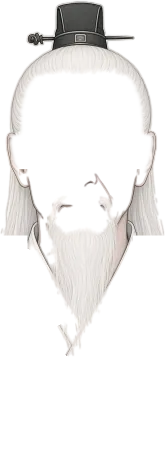
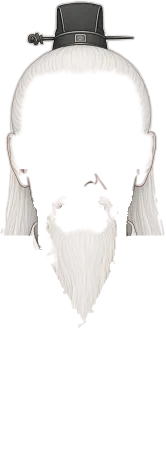
美术：hair_f9 颈侧白半圆、hair_me1 交领线和粉色中衣去掉（扫描仍 0）

diff --git a/tools/portrait_fixes.py b/tools/portrait_fixes.py
@@ -393,7 +393,10 @@ def post_fix(rel, im):
         ko, kr = OUTER_LEAKS[k]
         return fix_outer_leaks(rel, im, ko=ko, kr=kr)
     if k in HAIR_FRAGS:
-        return fix_hair_frags(rel, im)
+        im = fix_hair_frags(rel, im)
+        if k == "hair_me1":
+            im = fix_me1_collar(im)
+        return im
     if k.startswith(("hair_f", "hair_m")) and not k.startswith(("hair_fe", "hair_me")):
         return fix_hair_paper(rel, im)
     if k in BEARD_FRAGS:
@@ -446,6 +449,7 @@ def _part_pos(rel):
 # 头部遮罩以内（刘海、鬓角、额发）一律不动。
 PAPER = (235.0, 231.0, 224.0)
 HAIR_PAPER_ALL = ("hair_f9", "hair_m8")
+HAIR_PAPER_NECK = {"hair_f9": 150}   # 画布 y 以下头部遮罩不护（脸颊以下没有刘海鬓角）
 
 
 def fix_hair_paper(rel, im, y0=110, lift=12):
@@ -480,7 +484,10 @@ def fix_hair_paper(rel, im, y0=110, lift=12):
         H = np.zeros((h, w), np.uint8)
         sub = head[pos[1]:pos[1] + h, pos[0]:pos[0] + w]
         H[:sub.shape[0], :sub.shape[1]] = sub
-        tgt &= ~(cv2.dilate(H, np.ones((5, 5), np.uint8)) > 0)
+        prot = cv2.dilate(H, np.ones((5, 5), np.uint8)) > 0
+        if k in HAIR_PAPER_NECK:   # v0.16：f9 颈侧两块白半圆在遮罩里，颈部以下遮罩也不护
+            prot &= yy < HAIR_PAPER_NECK[k]
+        tgt &= ~prot
     if not every:
         solid = cv2.morphologyEx(((L > inkL + 100) & (al > 0.6)).astype(np.uint8), cv2.MORPH_OPEN,
                                  cv2.getStructuringElement(cv2.MORPH_ELLIPSE, (9, 9)))
@@ -589,4 +596,44 @@ def fix_outer_leaks(rel, im, dbg=None, lift=18, ko=7, kr=3, sm=5):
     if dbg is not None:
         dbg.update(med=round(med, 1), removed=int(((al > 40) & (newal < 40)).sum()), filled=int(fillm.sum()))
     a[..., 3] = newal.clip(0, 255).astype(np.uint8)
+    return Image.fromarray(a, "RGBA")
+
+
+# ---------------------------------------------------------------- v0.16：me1 贴着胡子的领口线
+# fix_hair_frags 只去掉离发团 7 px 以外的线；me1 的交领两道线贴着胡子两侧一路下来，在胡尖下交叉，
+# 右边胡子和领线之间还夹着一块粉色中衣。做法（部件坐标）：y ≥ 236（两侧垂发下沿）每行最外侧 6 px 去掉
+# （领线就是最外沿），y ≥ 190 偏粉（R − G > 10，白胡子是 4 左右）的像素去掉，y ≥ 322（胡尖）以下只留胡子实心
+# 部分；去完后掉下来的小块清掉，切口柔一下。
+def fix_me1_collar(im, y0=236, w=6, tip=322, pk0=190):
+    import cv2
+    a = np.array(im.convert("RGBA"))
+    al = a[..., 3].copy()
+    c = a[..., :3].astype(np.float32)
+    L = c @ np.array([0.299, 0.587, 0.114], np.float32)
+    rm = np.zeros(al.shape, bool)
+    for y in range(pk0, min(y0, al.shape[0])):
+        rm[y] |= (c[y, :, 0] - c[y, :, 1] > 10) & (al[y] > 0)
+    for y in range(y0, al.shape[0]):
+        xs = np.nonzero(al[y] > 60)[0]
+        if len(xs) == 0:
+            continue
+        xl, xr = xs[0], xs[-1]
+        rm[y, max(0, xl - 2):xl + w] = True
+        rm[y, xr - w + 1:xr + 3] = True
+        rm[y] |= (c[y, :, 0] - c[y, :, 1] > 10) & (al[y] > 0)
+    beard = ((al > 160) & (L > 200)).astype(np.uint8)
+    beard = cv2.morphologyEx(beard, cv2.MORPH_OPEN, cv2.getStructuringElement(cv2.MORPH_ELLIPSE, (9, 9)))
+    yy = np.arange(al.shape[0])[:, None]
+    rm |= (yy >= tip) & ~(cv2.dilate(beard, np.ones((3, 3), np.uint8)) > 0)
+    out = al.copy()
+    out[rm] = 0
+    k, lab, st, _ = cv2.connectedComponentsWithStats((out > 24).astype(np.uint8), 8)
+    if k > 1:
+        main = 1 + int(np.argmax(st[1:, 4]))
+        for i in range(1, k):
+            if i != main and st[i, 4] < 80 and st[i, 1] >= y0 - 4:
+                out[lab == i] = 0
+    hard = (cv2.dilate(rm.astype(np.uint8), np.ones((3, 3), np.uint8)) > 0) & (out > 0)
+    soft = cv2.GaussianBlur(out.astype(np.float32), (3, 3), 0.8)
+    a[..., 3] = np.where(hard, np.minimum(out, soft), out).astype(np.uint8)
     return Image.fromarray(a, "RGBA")

diff --git a/tools/scan_part_artefacts.py b/tools/scan_part_artefacts.py
@@ -161,6 +161,7 @@ REVIEWED = {
     ("hair_m7-base_m", "paper"): (80, "金冠的细边"),
     ("hair_fe2-base_fe", "frag"): (100, "冠上的珠子"),
     ("outer_f1-base_f", "frag"): (160, "纱披上单独的一缕纱"),
+    ("hair_me1-base_me", "frag"): (130, "两撮髭须之间画的唇线（原有，去掉粉色中衣后不再连着）"),
 }
 
 
